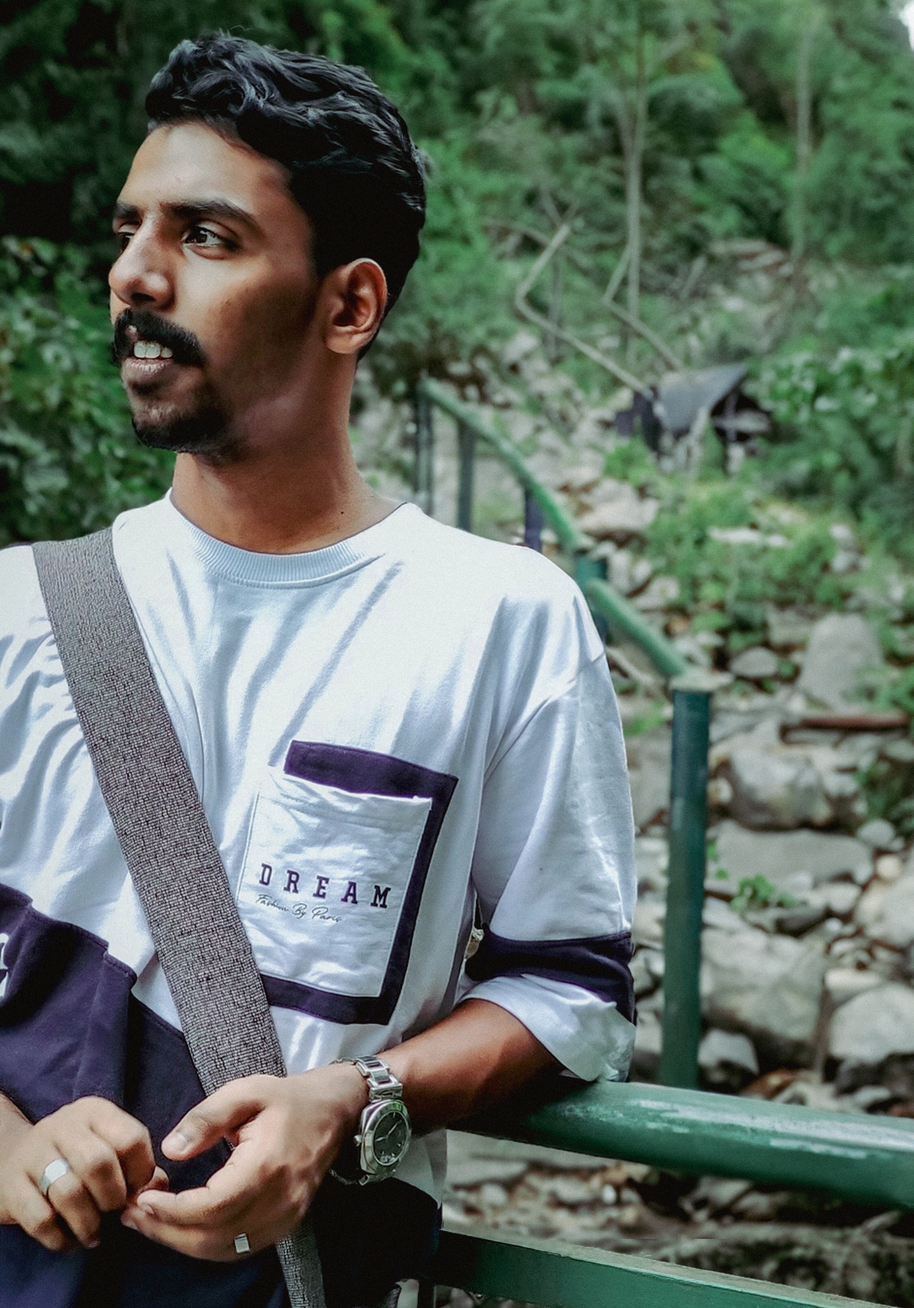
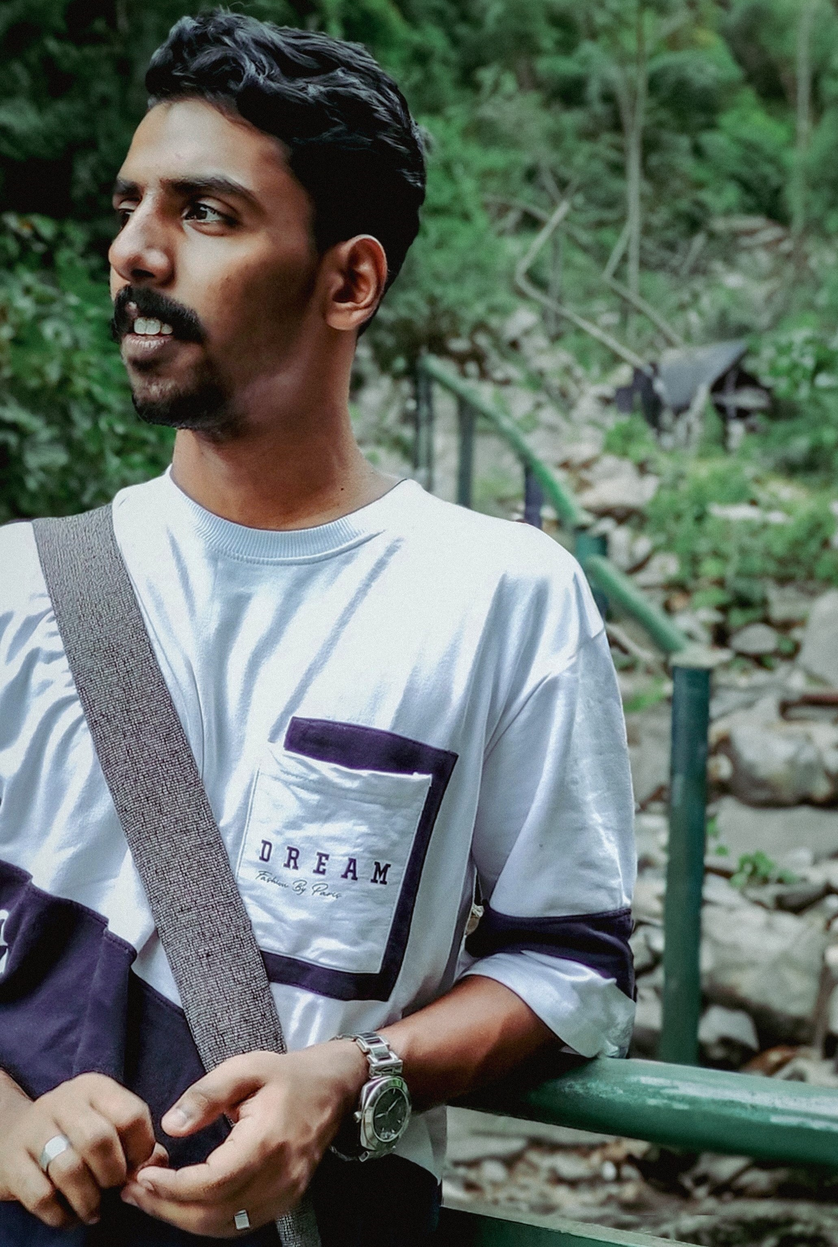
change profile

diff --git a/index.html b/index.html
@@ -118,7 +118,7 @@
                             <h2>About Me</h2>
                         </div>
 
-                        <p>Hello! I’m Shahul Hameed. Recently BCA Graduate from University OfCalicut at 2022 and also done Software testing at Luminar Technolab.To obtain a fresher position as a software tester in a fast-paced organization where technical skills and creative thinking are useful.
+                        <p>Hello! I’m Shahul Hameed. Recently BCA Graduate from University Of Calicut at 2022 and also done Software testing at Luminar Technolab.To obtain a fresher position as a software tester in a fast-paced organization where technical skills and creative thinking are useful.
                         </p>
 
                         <ul class="profile-menu">

diff --git a/css/main.css b/css/main.css
@@ -356,9 +356,9 @@ nav.main-menu ul li a:hover {
 }
 
 .about-thum-area .about-img {
-    height: 385px;
+    height: 365px;
     position: relative;
-    width: 334px;
+    width: 365px;
     z-index: 1;
 }
 
